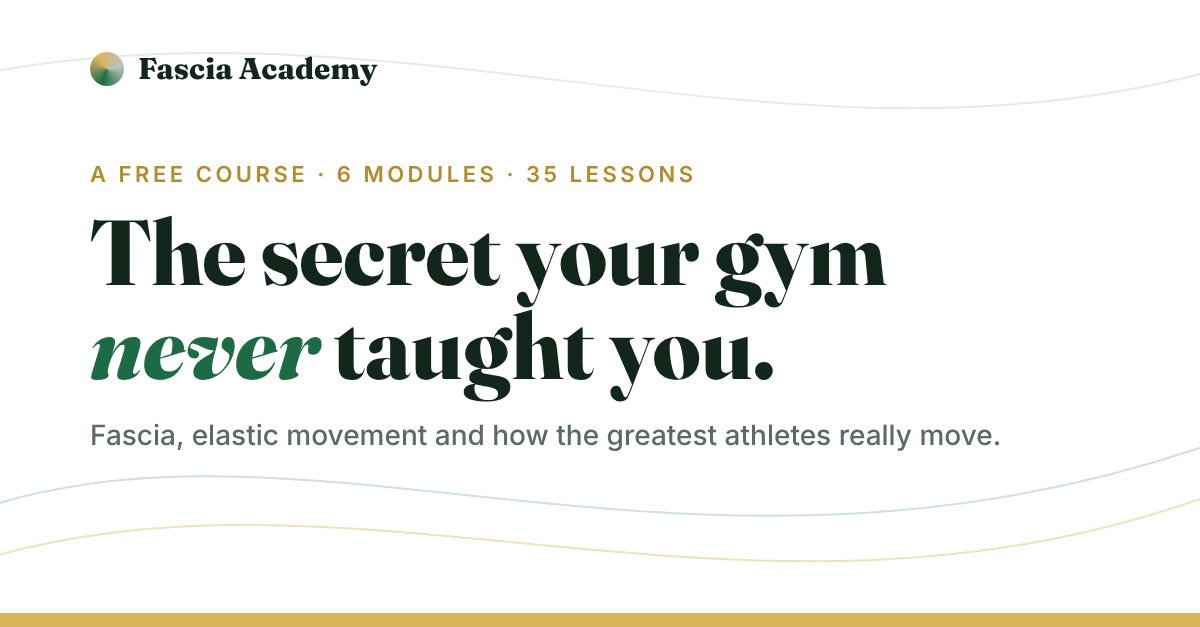
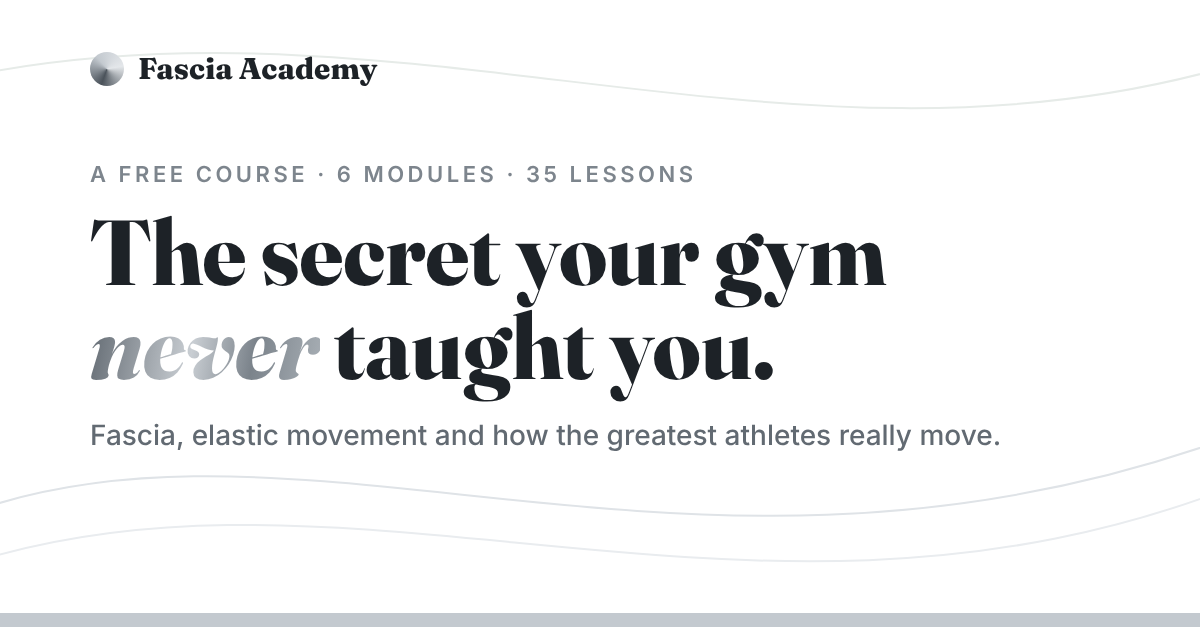
White and silver palette
Claude-Session: https://claude.ai/code/session_01FUSxfV1XH3yxwi596mTvDD

diff --git a/static/style.css b/static/style.css
@@ -1,18 +1,18 @@
 :root {
   --bg: #ffffff;
-  --bg-2: #f4f7f5;
-  --line: #dde3df;
-  --silver: #b9c1bd;
-  --ink: #13261c;
-  --ink-2: #5a6b62;
-  --green: #1d6b45;
-  --green-2: #2c8a5a;
-  --green-soft: #e6f1ea;
-  --gold: #b48a2c;
-  --gold-2: #d9b45a;
-  --accent: var(--green);
-  --accent-2: var(--green-2);
-  --good: var(--green-2);
+  --bg-2: #f6f7f8;
+  --line: #e2e5e8;
+  --silver: #b8bec4;
+  --ink: #1d2227;
+  --ink-2: #626a72;
+  --graphite: #2c3238;
+  --graphite-2: #4a525a;
+  --wash: #f1f3f5;
+  --silver-dark: #7d858d;
+  --silver-light: #c3c9cf;
+  --accent: var(--graphite);
+  --accent-2: var(--graphite-2);
+  --good: var(--graphite-2);
   --radius: 14px;
   --serif: "Fraunces", Georgia, serif;
   --sans: "Inter", system-ui, -apple-system, sans-serif;
@@ -41,7 +41,7 @@ main { max-width: 1120px; margin: 0 auto; padding: 0 20px; }
   border-bottom: 1px solid var(--line);
 }
 .brand { font: 600 18px var(--serif); color: var(--ink); text-decoration: none; display: flex; align-items: center; gap: 10px; }
-.mark { width: 22px; height: 22px; border-radius: 50%; background: conic-gradient(from 200deg, var(--green), var(--gold-2), var(--silver), var(--green)); }
+.mark { width: 22px; height: 22px; border-radius: 50%; background: conic-gradient(from 200deg, var(--graphite), var(--silver-light), var(--silver), var(--graphite)); }
 .nav nav a { color: var(--ink-2); text-decoration: none; margin-left: 22px; font-size: 15px; }
 .nav nav a:hover { color: var(--ink); }
 
@@ -50,25 +50,26 @@ main { max-width: 1120px; margin: 0 auto; padding: 0 20px; }
 .hero .lines { position: absolute; inset: 0; z-index: -1; opacity: .7; }
 .hero .lines svg { width: 100%; height: 100%; }
 .hero .lines path { fill: none; stroke: var(--accent); stroke-width: 1; opacity: .35; animation: drift 14s ease-in-out infinite alternate; }
-.hero .lines path:nth-child(odd) { stroke: var(--gold-2); animation-duration: 18s; }
+.hero .lines path:nth-child(odd) { stroke: var(--silver-light); animation-duration: 18s; }
 @keyframes drift { to { transform: translateY(18px); } }
 @media (prefers-reduced-motion: reduce) { .hero .lines path { animation: none; } }
 
-.eyebrow { text-transform: uppercase; letter-spacing: .14em; font-size: 12px; color: var(--gold); font-weight: 600; }
+.eyebrow { text-transform: uppercase; letter-spacing: .14em; font-size: 12px; color: var(--silver-dark); font-weight: 600; }
 h1, h2, h3 { font-family: var(--serif); line-height: 1.12; letter-spacing: -.01em; }
 .hero h1 { font-size: clamp(40px, 7vw, 78px); font-weight: 800; margin: 10px auto 18px; max-width: 14ch; }
-.hero h1 em { color: var(--green); font-style: italic; }
+.hero h1 em { background: linear-gradient(100deg, #5d656d, #c9ced3 45%, #7b838b 70%, #aab1b7); -webkit-background-clip: text; background-clip: text; color: transparent; padding-right: .08em; font-style: italic; }
 .lede { font-size: 20px; color: var(--ink-2); max-width: 640px; margin: 0 auto; }
 .cta-row { display: flex; gap: 12px; justify-content: center; flex-wrap: wrap; margin-top: 34px; }
 .btn {
   display: inline-block; padding: 14px 24px; border-radius: 999px;
-  background: var(--green); color: #fff; font-weight: 600; box-shadow: 0 6px 18px rgba(29, 107, 69, .22); text-decoration: none;
+  background: var(--graphite); color: #fff; font-weight: 600; box-shadow: 0 6px 18px rgba(29, 34, 39, .18); text-decoration: none;
   transition: transform .15s, background .15s;
 }
 .btn:hover { transform: translateY(-1px); background: var(--accent-2); }
+.btn:not(.ghost) { background: linear-gradient(180deg, #4a525a, #23282d); }
 .btn.ghost { background: #fff; color: var(--ink); border: 1px solid var(--silver); box-shadow: none; }
 .stats { display: flex; gap: 24px; justify-content: center; flex-wrap: wrap; margin-top: 40px; color: var(--ink-2); font-size: 14px; }
-.stats span::before { content: "●"; color: var(--gold-2); margin-right: 8px; font-size: 9px; vertical-align: middle; }
+.stats span::before { content: "●"; color: var(--silver-light); margin-right: 8px; font-size: 9px; vertical-align: middle; }
 
 /* pillars */
 .pillars { display: grid; grid-template-columns: repeat(3, 1fr); gap: 16px; margin: 30px 0 80px; }
@@ -76,7 +77,7 @@ h1, h2, h3 { font-family: var(--serif); line-height: 1.12; letter-spacing: -.01e
 .pillars h3 { margin: 6px 0; font-size: 28px; }
 .pillars p { color: var(--ink-2); margin: 0; }
 .pillars .soon { opacity: .55; }
-.pillars div:first-child { border-top: 3px solid var(--green); }
+.pillars div:first-child { border-top: 3px solid var(--graphite); }
 
 /* modules */
 .modules h2 { font-size: 42px; margin-bottom: 4px; }
@@ -87,7 +88,7 @@ h1, h2, h3 { font-family: var(--serif); line-height: 1.12; letter-spacing: -.01e
   border: 1px solid var(--line); border-radius: var(--radius); background: var(--bg-2);
   text-decoration: none; color: var(--ink); transition: border-color .2s, transform .2s;
 }
-.card:hover { border-color: var(--green); transform: translateY(-2px); box-shadow: 0 12px 30px rgba(19, 38, 28, .08); }
+.card:hover { border-color: var(--graphite); transform: translateY(-2px); box-shadow: 0 12px 30px rgba(29, 34, 39, .08); }
 .card h3 { font-size: 26px; margin: 8px 0; }
 .card p { color: var(--ink-2); flex: 1; margin: 0 0 16px; }
 .foot-row { display: flex; justify-content: space-between; align-items: center; font-size: 14px; color: var(--ink-2); }
@@ -108,7 +109,7 @@ h1, h2, h3 { font-family: var(--serif); line-height: 1.12; letter-spacing: -.01e
   text-decoration: none; color: var(--ink); background: var(--bg-2); transition: border-color .2s;
 }
 .lesson-list a:hover { border-color: var(--accent); }
-.lesson-list .num { font: 600 22px var(--serif); color: var(--gold); }
+.lesson-list .num { font: 600 22px var(--serif); color: var(--silver-dark); }
 .lesson-list .t small { display: block; color: var(--ink-2); font-size: 14px; margin-top: 2px; }
 .lesson-list .dur { color: var(--ink-2); font-size: 14px; }
 .lesson-list a.is-done .num::after { content: " ✓"; color: var(--good); }
@@ -120,18 +121,18 @@ h1, h2, h3 { font-family: var(--serif); line-height: 1.12; letter-spacing: -.01e
 .lesson .lede { margin: 0 0 32px; text-align: left; }
 .prose h2 { font-size: 30px; margin-top: 46px; }
 .prose h3 { font-size: 22px; margin-top: 30px; }
-.prose p, .prose li { color: #24372d; }
-.prose blockquote { border-left: 3px solid var(--gold-2); margin: 24px 0; padding: 4px 22px; color: var(--ink); font-family: var(--serif); font-size: 21px; }
+.prose p, .prose li { color: #2f353b; }
+.prose blockquote { border-left: 3px solid var(--silver-light); margin: 24px 0; padding: 4px 22px; color: var(--ink); font-family: var(--serif); font-size: 21px; }
 .prose strong { color: var(--ink); }
 .prose table { border-collapse: collapse; width: 100%; font-size: 15px; }
 .prose th, .prose td { border: 1px solid var(--line); padding: 8px 12px; text-align: left; }
 
 .videos { display: grid; gap: 22px; margin-bottom: 30px; }
 .video { margin: 0; }
-.yt { position: relative; width: 100%; aspect-ratio: 16 / 9; padding: 0; border: 0; border-radius: var(--radius); overflow: hidden; cursor: pointer; background: #000; box-shadow: 0 10px 30px rgba(19, 38, 28, .12); }
+.yt { position: relative; width: 100%; aspect-ratio: 16 / 9; padding: 0; border: 0; border-radius: var(--radius); overflow: hidden; cursor: pointer; background: #000; box-shadow: 0 10px 30px rgba(29, 34, 39, .12); }
 .yt img { width: 100%; height: 100%; object-fit: cover; opacity: .85; transition: opacity .2s; }
 .yt:hover img { opacity: 1; }
-.yt .play { position: absolute; left: 50%; top: 50%; width: 74px; height: 74px; margin: -37px; border-radius: 50%; background: var(--green); border: 3px solid #fff; }
+.yt .play { position: absolute; left: 50%; top: 50%; width: 74px; height: 74px; margin: -37px; border-radius: 50%; background: var(--graphite); border: 3px solid #fff; }
 .yt .play::after { content: ""; position: absolute; left: 29px; top: 22px; border-style: solid; border-width: 15px 0 15px 24px; border-color: transparent transparent transparent #fff; }
 .yt iframe { position: absolute; inset: 0; width: 100%; height: 100%; border: 0; }
 .video figcaption { font-size: 14px; color: var(--ink-2); margin-top: 10px; }
@@ -139,12 +140,12 @@ h1, h2, h3 { font-family: var(--serif); line-height: 1.12; letter-spacing: -.01e
 .clip { margin-left: 8px; padding: 2px 8px; border-radius: 99px; background: var(--line); font-size: 12px; }
 .why { font-style: italic; }
 
-.takeaways { margin: 40px 0; padding: 24px 28px; border-radius: var(--radius); background: var(--green-soft); border: 1px solid #cfe3d6; border-left: 4px solid var(--green); }
+.takeaways { margin: 40px 0; padding: 24px 28px; border-radius: var(--radius); background: var(--wash); border: 1px solid var(--line); border-left: 4px solid var(--graphite); }
 .takeaways h2 { margin: 0 0 8px; font-size: 22px; }
 .takeaways li { margin: 6px 0; }
 .evidence { font-size: 15px; color: var(--ink-2); border-top: 1px solid var(--line); padding-top: 18px; }
 .done-btn { margin: 20px 0; padding: 14px 24px; border-radius: 999px; border: 1px solid var(--good); background: transparent; color: var(--good); font: 600 15px var(--sans); cursor: pointer; }
-.done-btn.is-done { background: var(--green); color: #fff; }
+.done-btn.is-done { background: var(--graphite); color: #fff; }
 .sources { margin: 20px 0; font-size: 15px; }
 .sources summary { cursor: pointer; color: var(--ink-2); }
 .sources .kind { font-size: 12px; color: var(--ink-2); text-transform: uppercase; letter-spacing: .08em; margin-left: 6px; }
@@ -154,7 +155,7 @@ h1, h2, h3 { font-family: var(--serif); line-height: 1.12; letter-spacing: -.01e
 .pager small { display: block; color: var(--ink-2); font-size: 13px; }
 .pager .next { text-align: right; }
 
-.foot { background: var(--bg-2); border-top: 3px solid var(--gold-2); padding: 34px 24px; text-align: center; color: var(--ink-2); font-size: 15px; }
+.foot { background: var(--bg-2); border-top: 3px solid var(--silver-light); padding: 34px 24px; text-align: center; color: var(--ink-2); font-size: 15px; }
 .foot .small { font-size: 13px; max-width: 700px; margin: 8px auto 0; }
 
 @media (max-width: 720px) {
@@ -178,5 +179,5 @@ h1, h2, h3 { font-family: var(--serif); line-height: 1.12; letter-spacing: -.01e
 .creator { padding: 24px; border: 1px solid var(--line); border-radius: var(--radius); background: #fff; }
 .creator h3 { margin: 4px 0 6px; font-size: 22px; }
 .creator p { color: var(--ink-2); margin: 0 0 14px; font-size: 15px; }
-.creator a { margin-right: 14px; font-weight: 600; font-size: 14px; color: var(--green); text-decoration: none; }
+.creator a { margin-right: 14px; font-weight: 600; font-size: 14px; color: var(--graphite); text-decoration: none; }
 .creator a:hover { text-decoration: underline; }
